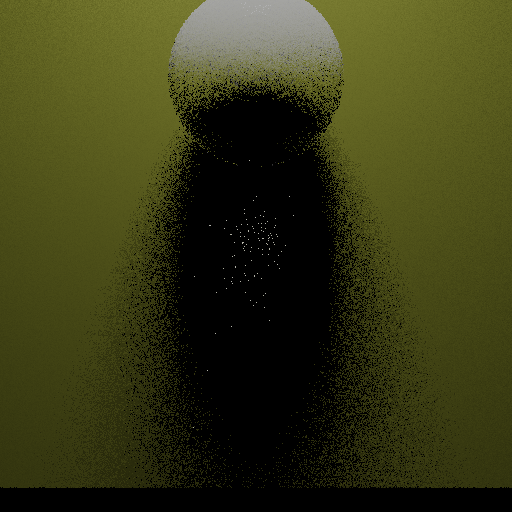
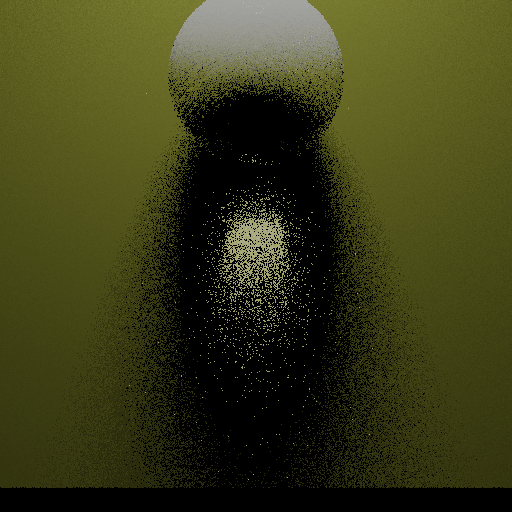
bug fix in photonmap

Changed region(s): [[0.25, 0.0938, 0.8125, 0.9688], [0.4062, 0.375, 0.5938, 0.6562]]

diff --git a/stylized/stylizedcaustics.cpp b/stylized/stylizedcaustics.cpp
@@ -160,9 +160,9 @@ void StylizedCaustics::refine(vector<Vector2f> positions){
         photons_dist d = *distMaxHeapSet.begin();
         Photon b = d.p1;
         auto i = d.p2;
-//        assignmentMap[I[i]] = B[b];
+        assignmentMap[I[i]] = B[b];
 //        std::cout << B[b] << std::endl;
-        assignmentMap[B[b]] = I[i]; //store in assignment map
+//        assignmentMap[B[b]] = I[i]; //store in assignment map
 
         B_PhotonMap.remove(b);
         I.erase(I.find(i));
@@ -173,7 +173,6 @@ void StylizedCaustics::refine(vector<Vector2f> positions){
         // for all the objects in distMaxHeap, replace the b if b is deleted
         for(auto it = distMaxHeapSet.begin(); it != distMaxHeapSet.end();) {
             if (it->p1.origin == b.origin) {
-//                Photon new_b = b;
                 Photon new_b = B_PhotonMap.getNearestPhotonFrom(it->p2->origin);
                 float new_distance = (Vector2f(new_b.origin(0), new_b.origin(2)) - Vector2f(it->p2->origin(0), it->p2->origin(2))).norm();
                 photons_dist updated_element{new_b, it->p2, new_distance * new_distance};
@@ -185,6 +184,12 @@ void StylizedCaustics::refine(vector<Vector2f> positions){
         }
         for(auto& updated_element: tempVector) distMaxHeapSet.insert(updated_element);
     }
+//    unordered_set<int> s;
+//    for (int i = 0; i < assignmentMap.size(); i++){
+//        s.insert(assignmentMap[i]);
+//        cout << i << " ->" << assignmentMap[i] << endl;
+//    }
+//    cout << "set.size=" << s.size() << ", map.size="<< assignmentMap.size() << endl;
     cout << "finished iteration" << endl;
 }
 

diff --git a/photon.cpp b/photon.cpp
@@ -44,15 +44,20 @@ void nearest_photons_map::get_nearest_photon(const vector<Photon>& photons, int 
     {
         double dist_axis = origin[cur_photon.divide_axis] - cur_photon.origin[cur_photon.divide_axis];
         if (dist_axis < 0)
-            get_nearest_photons(photons, 2 * index + 1);
-        else
-            get_nearest_photons(photons, 2 * index + 2);
+            get_nearest_photon(photons, 2 * index + 1);
+        else if (2 * index + 2 < photons.size())
+            get_nearest_photon(photons, 2 * index + 2);
     }
+    //std::cout << "origin = " << origin(0) << ", " << origin(1) << ", " << origin(2) << std::endl;
+//    std::cout << "cur_photon.origin = " << cur_photon.origin(0) << ", " << cur_photon.origin(1) << ", " << cur_photon.origin(2) << std::endl;
 
     float cur_dist_square = (cur_photon.origin - origin).squaredNorm();
+//    std::cout << "cur_dist_square = " << cur_dist_square << std::endl;
     if (cur_dist_square < min_dist_square)
     {
+//        std::cout << "min_dist_square = " << min_dist_square << std::endl;
         min_dist_square = cur_dist_square;
+//        std::cout << "min_dist_square = " << min_dist_square << std::endl;
         nearest_photon = cur_photon;
     }
 }
